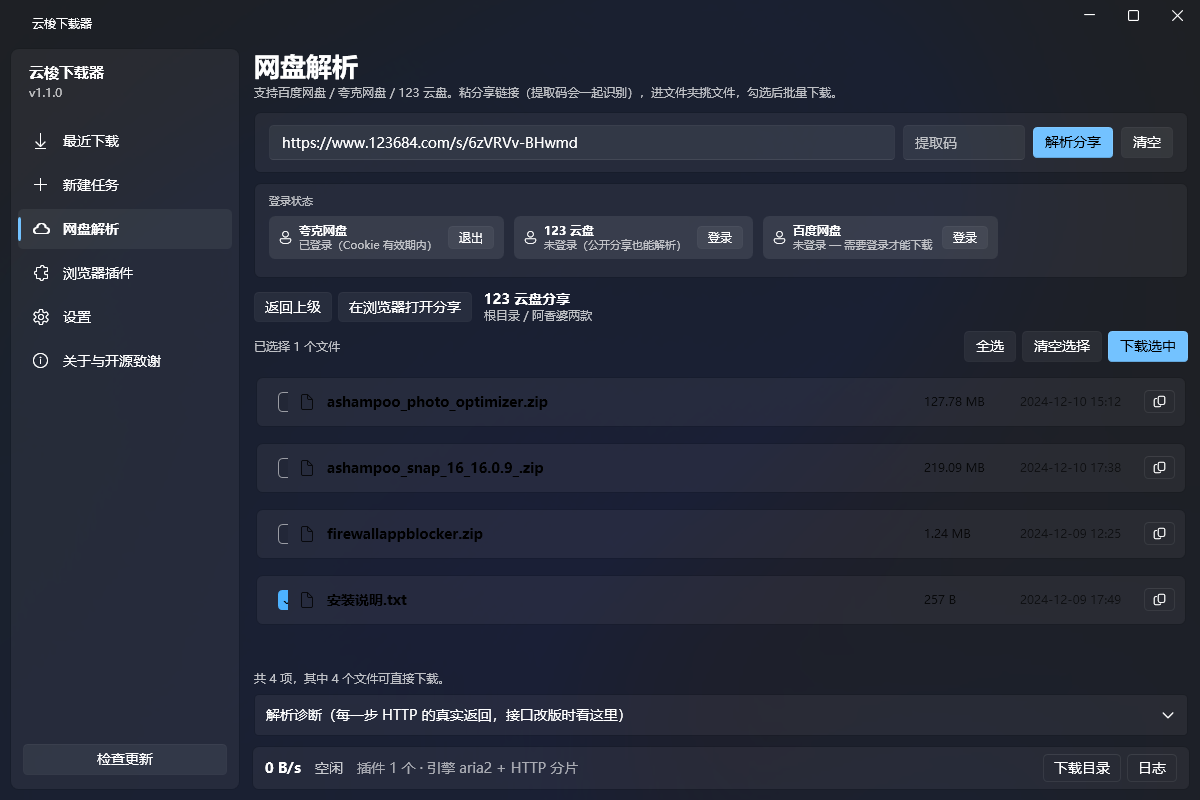
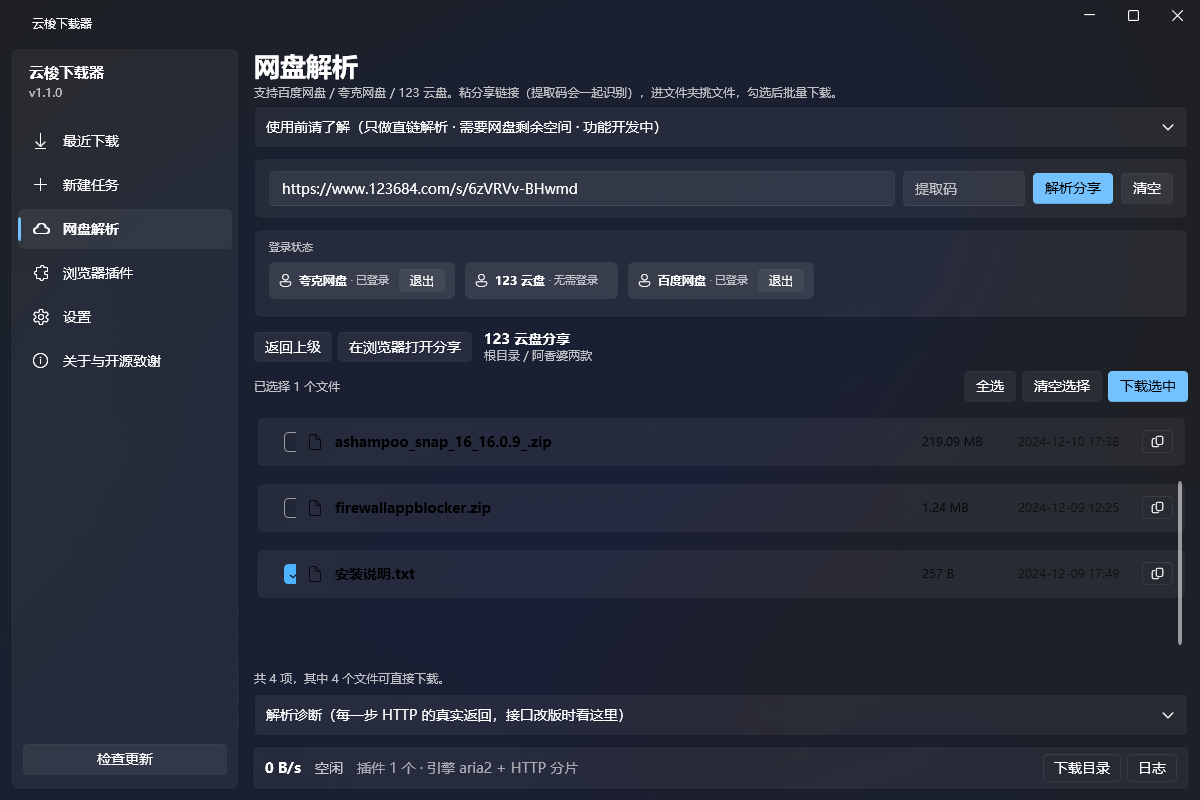
fix: 保存目录校验（链接当目录导致"无法创建目录"）+ 网盘页紧凑布局 + 123 不显示登录 + 每天检查一次更新
用户第二轮实测反馈：
1) 任务失败信息是"无法创建目录" —— 日志显示任务把分享链接当成了保存目录，
   aria2 于是去 mkdir 一个叫 https://... 的文件夹。三处兜底：
   - AddAsync 前用 PathGuard 校验（链接/磁力/相对路径都不认），退回设置里的目录并记日志
   - SettingsService 读取时自愈非法目录
   - 新建任务页遇到非法目录直接提示，不再交给引擎
2) 网盘页在 700 高的窗口里文件列表被挤没 —— 用前须知改可折叠（默认只留一行标题）、
   登录状态改单行紧凑、列表设最小高度；勾选列 32 -> 38px 并内缩 4px，避免高 DPI 被裁
3) 123 云盘公开分享本来就不用登录，登录窗口只抓到访客 Cookie 还显示"已登录"，
   现在只有必须登录的网盘才显示登录按钮
4) 自动检查更新改为"每天第一次启动检查一次"，设置项文案同步

自检 124 -> 129（新增 5 条目录校验用例）

diff --git a/src/YunsuoDownloader.App/Views/Pages/PanPage.xaml b/src/YunsuoDownloader.App/Views/Pages/PanPage.xaml
@@ -1,4 +1,4 @@
-<UserControl x:Class="YunsuoDownloader.App.Views.Pages.PanPage"
+<UserControl x:Class="YunsuoDownloader.App.Views.Pages.PanPage"
              xmlns="http://schemas.microsoft.com/winfx/2006/xaml/presentation"
              xmlns:x="http://schemas.microsoft.com/winfx/2006/xaml"
              xmlns:ui="http://schemas.lepo.co/wpfui/2022/xaml"
@@ -19,10 +19,30 @@
         </Grid.RowDefinitions>
 
         <!-- ==================== 标题 ==================== -->
-        <StackPanel Grid.Row="0" Margin="0,0,0,12">
+        <StackPanel Grid.Row="0" Margin="0,0,0,10">
             <TextBlock Text="网盘解析" Style="{StaticResource PageTitleStyle}" />
             <TextBlock Style="{StaticResource CaptionTextStyle}"
                        Text="支持百度网盘 / 夸克网盘 / 123 云盘。粘分享链接（提取码会一起识别），进文件夹挑文件，勾选后批量下载。" />
+
+            <!--
+               用前须知：说清"不加速 / 要空间 / 还在开发中"，省得用户以为是程序坏了。
+               做成可折叠的：窗口矮的时候（700）展开会把下面的文件列表挤没，
+               折起来只剩一行标题，用户想看再展开。
+            -->
+            <Expander Margin="0,6,0,0" IsExpanded="False"
+                      Header="使用前请了解（只做直链解析 · 需要网盘剩余空间 · 功能开发中）">
+                <Border Padding="12,10" CornerRadius="6"
+                        Background="{DynamicResource CardBackgroundFillColorDefaultBrush}"
+                        BorderBrush="{DynamicResource CardStrokeColorDefaultBrush}" BorderThickness="1">
+                    <TextBlock TextWrapping="Wrap" FontSize="12" Opacity="0.9" LineHeight="19">
+                        <Run Text="· 这里只做「直链解析」，不提供任何下载加速：速度取决于你的网盘账号（普通 / 会员）和网络。" />
+                        <LineBreak />
+                        <Run Text="· 夸克 / 百度 取直链前需要先把文件「转存到自己的网盘」，请确认账号剩余空间足够，否则会提示容量不足。" />
+                        <LineBreak />
+                        <Run Text="· 功能仍在开发中，可能存在问题；后续版本会支持更多网盘。" />
+                    </TextBlock>
+                </Border>
+            </Expander>
         </StackPanel>
 
         <!-- ==================== 输入 ==================== -->
@@ -66,12 +86,15 @@
                                     <TextBlock FontFamily="{StaticResource IconFontFamily}" FontSize="13"
                                                VerticalAlignment="Center" Margin="0,0,7,0"
                                                Text="&#xE77B;" />
-                                    <StackPanel VerticalAlignment="Center" Margin="0,0,10,0">
+                                    <StackPanel Orientation="Horizontal" VerticalAlignment="Center" Margin="0,0,10,0">
                                         <TextBlock Text="{Binding DisplayName}" FontWeight="SemiBold" FontSize="12" />
-                                        <TextBlock Text="{Binding StateText}" FontSize="11" Opacity="0.7" />
+                                        <TextBlock Text=" · " FontSize="11" Opacity="0.5" />
+                                        <TextBlock Text="{Binding StateText}" FontSize="11" Opacity="0.7"
+                                                   VerticalAlignment="Center" />
                                     </StackPanel>
                                     <ui:Button Appearance="Secondary" Padding="10,3" FontSize="12"
                                                Content="{Binding ActionText}"
+                                               Visibility="{Binding CanLogin, Converter={StaticResource BoolToVisibility}}"
                                                Command="{Binding DataContext.ToggleLoginCommand, RelativeSource={RelativeSource AncestorType=UserControl}}"
                                                CommandParameter="{Binding}" />
                                 </StackPanel>
@@ -131,14 +154,15 @@
         </Grid>
 
         <!-- ==================== 文件列表 ==================== -->
+        <!-- MinHeight：窗口矮的时候宁可让整页留白/滚动，也不要把列表挤成一条缝看不到东西 -->
         <Grid Grid.Row="4">
-            <ListView ItemsSource="{Binding Files}" Style="{StaticResource FlatListViewStyle}">
+            <ListView ItemsSource="{Binding Files}" Style="{StaticResource FlatListViewStyle}" MinHeight="120">
                 <ListView.ItemTemplate>
                     <DataTemplate>
-                        <Border Style="{StaticResource CardBorderStyle}" Padding="10,8">
+                        <Border Style="{StaticResource CardBorderStyle}" Padding="12,8">
                             <Grid>
                                 <Grid.ColumnDefinitions>
-                                    <ColumnDefinition Width="32" />
+                                    <ColumnDefinition Width="38" />
                                     <ColumnDefinition Width="28" />
                                     <ColumnDefinition Width="*" />
                                     <ColumnDefinition Width="96" />
@@ -146,7 +170,7 @@
                                     <ColumnDefinition Width="Auto" />
                                 </Grid.ColumnDefinitions>
 
-                                <CheckBox Grid.Column="0" VerticalAlignment="Center"
+                                <CheckBox Grid.Column="0" VerticalAlignment="Center" Margin="4,0,0,0"
                                           IsChecked="{Binding IsSelected}"
                                           Visibility="{Binding IsFolder, Converter={StaticResource InverseBoolToVisibility}}" />
 

diff --git a/src/YunsuoDownloader.App/Views/Pages/SettingsPage.xaml b/src/YunsuoDownloader.App/Views/Pages/SettingsPage.xaml
@@ -1,4 +1,4 @@
-<UserControl x:Class="YunsuoDownloader.App.Views.Pages.SettingsPage"
+<UserControl x:Class="YunsuoDownloader.App.Views.Pages.SettingsPage"
              xmlns="http://schemas.microsoft.com/winfx/2006/xaml/presentation"
              xmlns:x="http://schemas.microsoft.com/winfx/2006/xaml"
              xmlns:ui="http://schemas.lepo.co/wpfui/2022/xaml"
@@ -332,7 +332,7 @@
             <TextBlock Text="更新" Style="{StaticResource SectionTitleStyle}" />
             <Border Style="{StaticResource CardBorderStyle}">
                 <StackPanel>
-                    <CheckBox Content="启动时自动检查更新" IsChecked="{Binding CheckUpdatesOnStartup}" />
+                    <CheckBox Content="每天第一次启动时自动检查更新（同一天不会重复检查）" IsChecked="{Binding CheckUpdatesOnStartup}" />
                     <Grid Margin="0,12,0,0">
                         <Grid.ColumnDefinitions>
                             <ColumnDefinition Width="130" />

diff --git a/src/YunsuoDownloader.App/ViewModels/PanViewModel.cs b/src/YunsuoDownloader.App/ViewModels/PanViewModel.cs
@@ -1,4 +1,4 @@
-using System.Collections.ObjectModel;
+using System.Collections.ObjectModel;
 using System.Diagnostics;
 using System.Windows;
 using CommunityToolkit.Mvvm.ComponentModel;
@@ -47,6 +47,9 @@ public sealed partial class PanLoginRow : ObservableObject
 
     public bool RequiresLogin { get; }
 
+    /// <summary>只有"必须登录才能下"的网盘才显示登录按钮；123 这种公开分享直接能下的没必要登。</summary>
+    public bool CanLogin => RequiresLogin;
+
     [ObservableProperty] private bool _isLoggedIn;
 
     [ObservableProperty] private string _stateText = "未登录";
@@ -58,7 +61,10 @@ public sealed partial class PanLoginRow : ObservableObject
         Hint = provider.Hint;
         RequiresLogin = provider.RequiresLogin;
         _isLoggedIn = loggedIn;
-        _stateText = loggedIn ? "已登录（Cookie 有效期内）" : (provider.RequiresLogin ? "未登录 — 需要登录才能下载" : "未登录（公开分享也能解析）");
+        _stateText = !provider.RequiresLogin
+            // 不需要登录的网盘（123）：就算设置里残留了一份访客 Cookie，也不要显示"已登录"误导人
+            ? "无需登录"
+            : (loggedIn ? "已登录" : "未登录 · 需登录才能下");
     }
 
     public string ActionText => IsLoggedIn ? "退出" : "登录";
@@ -108,7 +114,7 @@ public sealed partial class PanViewModel : ObservableObject
 
         Logins.Clear();
         foreach (var provider in PanCatalog.Providers)
-            Logins.Add(new PanLoginRow(provider, Service.HasLogin(provider.Id)));
+            Logins.Add(new PanLoginRow(provider, provider.RequiresLogin && Service.HasLogin(provider.Id)));
     }
 
     /// <summary>一行的「登录 / 退出」按钮：已登录就退出，没登录就弹内嵌浏览器登录。</summary>

diff --git a/src/YunsuoDownloader.Core/Services/DownloadManager.cs b/src/YunsuoDownloader.Core/Services/DownloadManager.cs
@@ -425,7 +425,22 @@ public sealed class DownloadManager : IAsyncDisposable
             if (!string.IsNullOrWhiteSpace(ext)) item.FileName += ext;
         }
 
+        // 保存目录兜底：这里必须挡住"看起来像链接/不是绝对路径"的目录。
+        // 实测踩过：目录被填成了分享链接（https://www.123684.com/s/…），
+        // aria2 于是去 mkdir 一个叫 "https://…" 的文件夹，报
+        // "Failed to make the directory …, cause: Invalid argument"，
+        // 用户只能看到一个"无法创建目录"的失败任务，完全猜不到是目录填错了。
         item.Directory = !string.IsNullOrWhiteSpace(req.Directory) ? req.Directory! : settings.DownloadDirectory;
+        if (!PathGuard.IsUsableDirectory(item.Directory))
+        {
+            // 优先退回"设置里的下载目录"（通常是好的），实在不行才退系统默认
+            var fallback = PathGuard.IsUsableDirectory(settings.DownloadDirectory)
+                ? settings.DownloadDirectory
+                : Models.AppSettings.DefaultDownloadDirectory;
+            Log.Warn($"保存目录不可用（{item.Directory}），已改用：{fallback}");
+            item.Directory = fallback;
+        }
+
         if (settings.CreateSubfolderPerTask && !string.IsNullOrWhiteSpace(item.Title) && item.Kind is DownloadKind.Video or DownloadKind.Hls)
         {
             try { item.Directory = Path.Combine(item.Directory, Format.SafeFileName(item.Title, "video")); }

diff --git a/src/YunsuoDownloader.Core/Utils/PathGuard.cs b/src/YunsuoDownloader.Core/Utils/PathGuard.cs
@@ -1,0 +1,29 @@
+using System.IO;
+
+namespace YunsuoDownloader.Core.Utils;
+
+/// <summary>
+/// 路径合法性检查（专门挡"把链接填进目录框"这种坑）。
+///
+/// 实测踩过：保存目录被填成了分享链接 <c>https://www.123684.com/s/…</c>，
+/// aria2 于是去创建一个叫 "https://…" 的文件夹，报
+/// <c>Failed to make the directory …, cause: Invalid argument</c>，
+/// 用户只看到一个"无法创建目录"的失败任务，根本猜不到是目录填错了。
+/// </summary>
+public static class PathGuard
+{
+    /// <summary>是不是一个可以拿来当保存目录的路径。</summary>
+    public static bool IsUsableDirectory(string? dir)
+    {
+        if (string.IsNullOrWhiteSpace(dir)) return false;
+
+        // 链接 / 磁力 / 迅雷：绝对不可能是目录
+        if (dir.Contains("://", StringComparison.Ordinal)) return false;
+        if (dir.StartsWith("magnet:", StringComparison.OrdinalIgnoreCase)) return false;
+        if (dir.StartsWith("ed2k:", StringComparison.OrdinalIgnoreCase)) return false;
+
+        // 必须是绝对路径：相对路径依赖进程工作目录，换个启动方式文件就跑到别处去了
+        try { return Path.IsPathFullyQualified(dir); }
+        catch { return false; }
+    }
+}

diff --git a/src/YunsuoDownloader.App/App.xaml.cs b/src/YunsuoDownloader.App/App.xaml.cs
@@ -122,11 +122,18 @@ public partial class App : Application
         // ---- 命令行带入的链接
         if (args.Length > 0) _ = HandleArgumentsAsync(args);
 
-        // ---- 检查更新（需求 10）
-        if (AppServices.Settings.Current.CheckUpdatesOnStartup)
+        // ---- 检查更新（需求 10）：每天第一次启动检查一次，同一天再开就不打扰 ----
+        var updateSettings = AppServices.Settings.Current;
+        var checkedToday = updateSettings.LastUpdateCheck?.Date == DateTime.Today;
+        if (updateSettings.CheckUpdatesOnStartup && !checkedToday)
+        {
+            Log.Info($"今天还没检查过更新（上次：{updateSettings.LastUpdateCheck?.ToString("yyyy-MM-dd HH:mm") ?? "从未"}），开始检查");
             _ = CheckUpdatesSilentlyAsync();
-        else
-            Notify("提示", "提示：可在「设置 → 更新」中开启启动时自动检查更新", Models.InfoSeverity.Info);
+        }
+        else if (!updateSettings.CheckUpdatesOnStartup)
+        {
+            Notify("提示", "提示：可在「设置 → 更新」中开启每天自动检查更新", Models.InfoSeverity.Info);
+        }
 
         Log.Info($"启动完成，工具状态：{Environment.NewLine}{AppServices.Tools.Summary()}");
     }

diff --git a/src/YunsuoDownloader.Cli/SelfTest.cs b/src/YunsuoDownloader.Cli/SelfTest.cs
@@ -583,6 +583,15 @@ public static class SelfTest
             Core.Engine.YtDlpEngine.BuildFormatSelector("best") == "bv*+ba/b" &&
             Core.Engine.YtDlpEngine.BuildFormatSelector(null) == "bv*+ba/b");
 
+        // ---- 保存目录校验（挡住"把链接填进目录框"）----
+        Check("目录校验：链接不能当保存目录",
+            !Core.Utils.PathGuard.IsUsableDirectory("https://www.123684.com/s/6zVRVv-BHwmd"));
+        Check("目录校验：磁力链不能当保存目录",
+            !Core.Utils.PathGuard.IsUsableDirectory("magnet:?xt=urn:btih:abc"));
+        Check("目录校验：绝对路径可用", Core.Utils.PathGuard.IsUsableDirectory(@"F:\测试"));
+        Check("目录校验：相对路径不认", !Core.Utils.PathGuard.IsUsableDirectory("downloads"));
+        Check("目录校验：空值不认", !Core.Utils.PathGuard.IsUsableDirectory(""));
+
         // 非网盘链接不受影响（保证没误伤）
         var biliResolve = manager.ResolveAsync("https://www.bilibili.com/video/BV1xx411c7mD")
             .GetAwaiter().GetResult();

diff --git a/src/YunsuoDownloader.Core/Services/SettingsService.cs b/src/YunsuoDownloader.Core/Services/SettingsService.cs
@@ -80,7 +80,8 @@ public sealed class SettingsService
         if (s.MinSplitSizeKb < 1024) s.MinSplitSizeKb = 1024;   // aria2 硬性要求 >= 1M
         if (s.MinSplitSizeKb > 1024 * 1024) s.MinSplitSizeKb = 1024 * 1024;
         if (s.MaxHistoryItems < 20) s.MaxHistoryItems = 500;
-        if (string.IsNullOrWhiteSpace(s.DownloadDirectory)) s.DownloadDirectory = AppSettings.DefaultDownloadDirectory;
+        // 目录被写成链接/相对路径（历史 bug、手改配置文件）时自愈回默认目录
+        if (!PathGuard.IsUsableDirectory(s.DownloadDirectory)) s.DownloadDirectory = AppSettings.DefaultDownloadDirectory;
         if (string.IsNullOrWhiteSpace(s.Theme)) s.Theme = "System";
     }
 

diff --git a/src/YunsuoDownloader.App/ViewModels/NewTaskViewModel.cs b/src/YunsuoDownloader.App/ViewModels/NewTaskViewModel.cs
@@ -342,6 +342,11 @@ public sealed partial class NewTaskViewModel : ObservableObject
             StatusMessage = "请先选择下载保存位置。";
             return;
         }
+        if (!PathGuard.IsUsableDirectory(Directory))
+        {
+            StatusMessage = $"保存位置不是有效的文件夹路径：{Directory}\n点「浏览…」重新选一个目录（别把链接填进来）。";
+            return;
+        }
 
         IsBusy = true;
         int ok = 0, fail = 0;

diff --git a/CHANGELOG.md b/CHANGELOG.md
@@ -43,7 +43,22 @@
 ### 修复（命令行）
 - ysd add --name xxx --dir yyy 之前会把选项值当成链接，多排好几条失败任务
 
-### 修复（来自用户实测反馈）
+### 修复（第二轮用户实测反馈）
+- **任务把分享链接当成"保存目录"**：目录被填成 https://www.123684.com/s/… 时，
+  aria2 会去创建一个叫 https://… 的文件夹，报 Failed to make the directory，
+  用户只看到"无法创建目录"完全猜不到原因。现在三处兜底：
+  加任务时校验目录（链接/相对路径一律不认，自动退回设置里的目录并记日志）、
+  读配置文件时自愈、新建任务页遇到非法目录直接提示，不再交给引擎
+- **网盘页在 700 高的窗口里文件列表被挤没**：用前须知改成可折叠（默认只留一行标题）、
+  登录状态改单行紧凑布局、列表设最小高度，965×700 也能看到 2~3 行文件
+- **勾选框显示不全**：勾选列 32 → 38px 并内缩 4px，避免高 DPI 下贴边被裁
+- **123 云盘的"登录"是多余的**：它公开分享本来就不用登录，登录窗口只能抓到 2 个访客
+  Cookie（还显示成"已登录"误导人）。现在只有必须登录的网盘（夸克/百度）才显示登录按钮，
+  123 显示"无需登录"
+- **自动检查更新改成"每天第一次启动检查一次"**：同一天再开不重复检查；
+  设置项文案同步改成「每天第一次启动时自动检查更新」
+
+### 其它修复（上一轮）
 - **点「我已完成登录」后主界面没反应**：ShowDialog() 的返回值有 true / false / null 三种，
   只 Close() 不设 DialogResult 时拿到的是 null，调用方写 if (ok == true) 就判成"没登录成功"。
   现在对话框显式设 DialogResult = true，调用方也只认对话框自己记的 Succeeded
